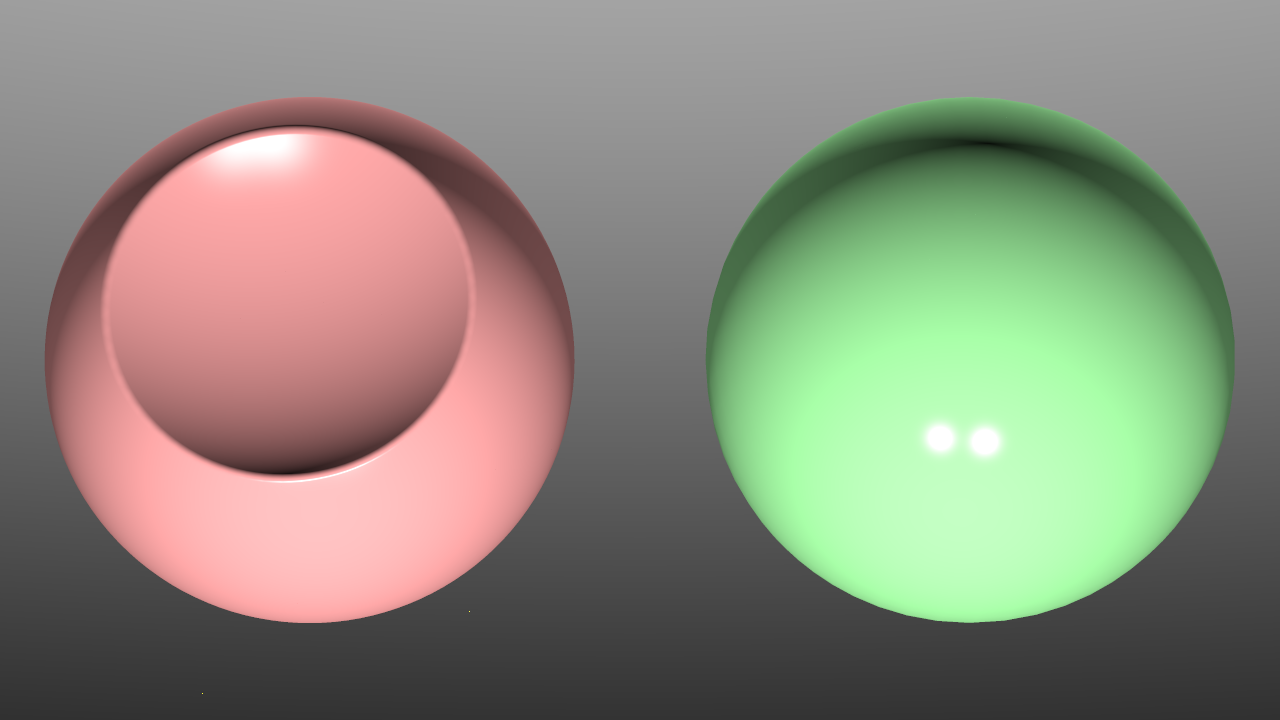
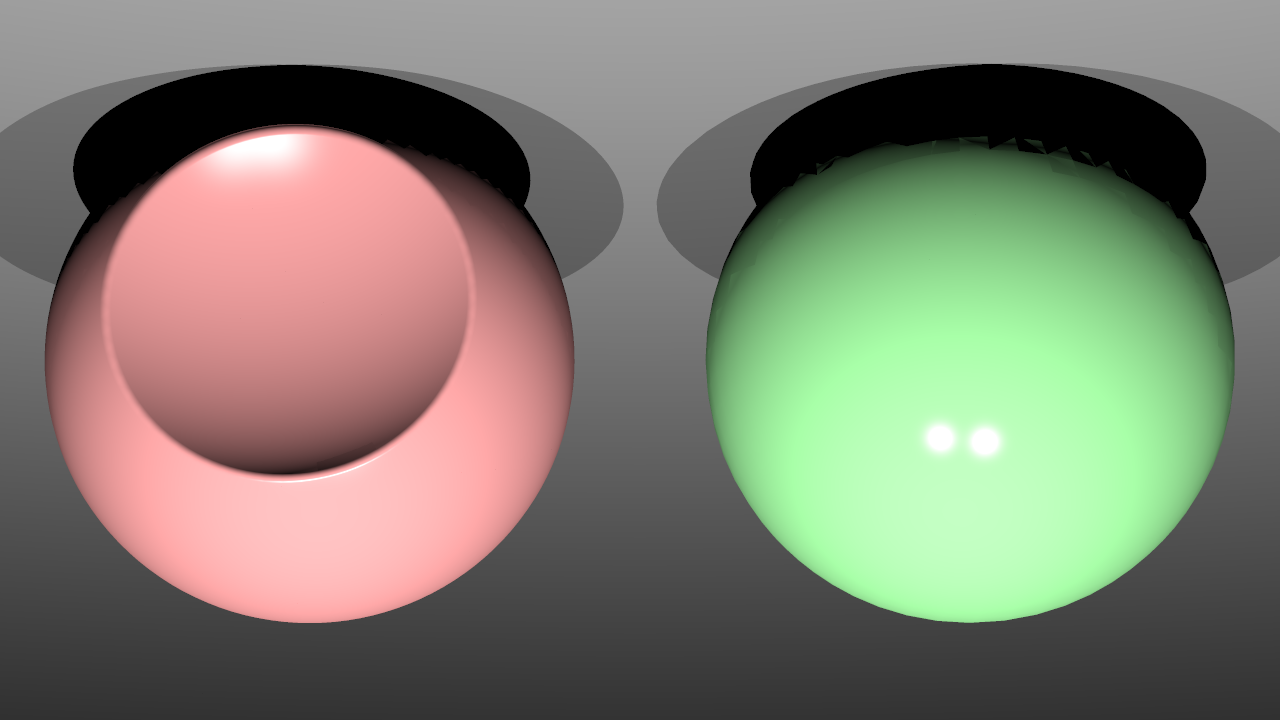
j

Changed region(s): [[0.0, 0.0611, 1.0, 0.4583]]

diff --git a/src/raytrace.cpp b/src/raytrace.cpp
@@ -75,7 +75,7 @@ void ray_triangle_intersection(ym::vec3f v0,ym::vec3f v1,ym::vec3f v2, ym::ray3f
 }
 
 ym::ray3f camera_ray(yobj::camera* cam, float u, float v, float w, float h){
-//printFrame(ym::to_frame(cam->matrix));
+
   auto camera_pos = ym::to_frame(cam->xform());
   //auto camera_pos = ym::inverse(ym::to_frame(cam->xform()));
 
@@ -104,13 +104,10 @@ ym::vec4f compute_color(const ybvh::scene* bvh, const yobj::scene* scn, ym::ray3
 
     auto ist = scn->instances[intersection.iid];
     auto mat = ist->msh->shapes[0]->mat;
-    auto shp = ist->msh->shapes[0];
     auto msh = ist->msh;
 
     auto n =  normal(msh,intersection.eid,intersection.euv.xyz());
     auto p = position(msh,intersection.eid,intersection.euv.xyz());
-//    auto n =  shp->norm[intersection.eid];
-   // auto p = shp->pos[intersection.eid];
 
     for(auto light:lights){
 
@@ -119,8 +116,9 @@ ym::vec4f compute_color(const ybvh::scene* bvh, const yobj::scene* scn, ym::ray3
 
       ym::ray3f sr = ym::ray3f{p,l,epsilon,r};
       auto shadow = ybvh::intersect_scene(bvh, sr, false);
-      if(shadow.sid==intersection.sid&&shadow.eid==intersection.eid)
+      if(shadow) {
         continue;
+      }
       else {
         auto In = light->mat->ke / (r * r);
         auto v = normalize(ray.o-p);
@@ -132,8 +130,6 @@ ym::vec4f compute_color(const ybvh::scene* bvh, const yobj::scene* scn, ym::ray3
       }
     }
   }
-  else
-    c={255,255,0,1};
 
   return {c.x, c.y, c.z, 0};
 }
@@ -206,8 +202,7 @@ int main(int argc, char** argv) {
   yobj::add_instances(scn);
 //  scn->cameras.clear();
 //  yobj::add_default_camera(scn);
-
-
+  
   // create bvh
   yu::logging::log_info("creating bvh");
   auto bvh = make_bvh(scn);
